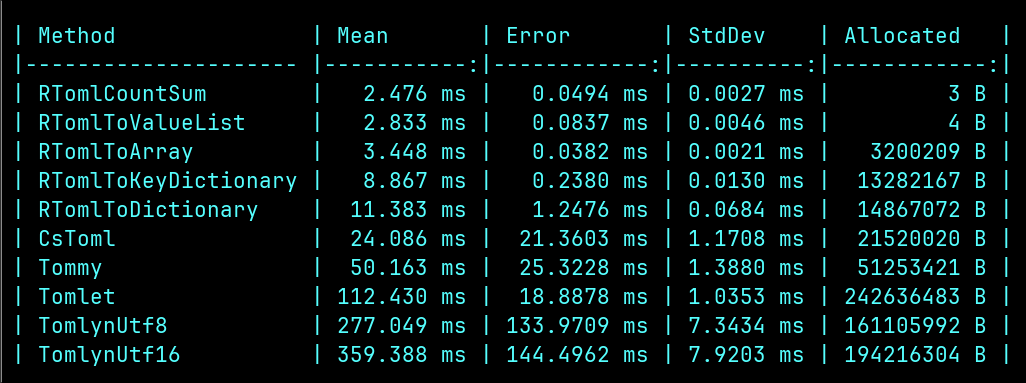
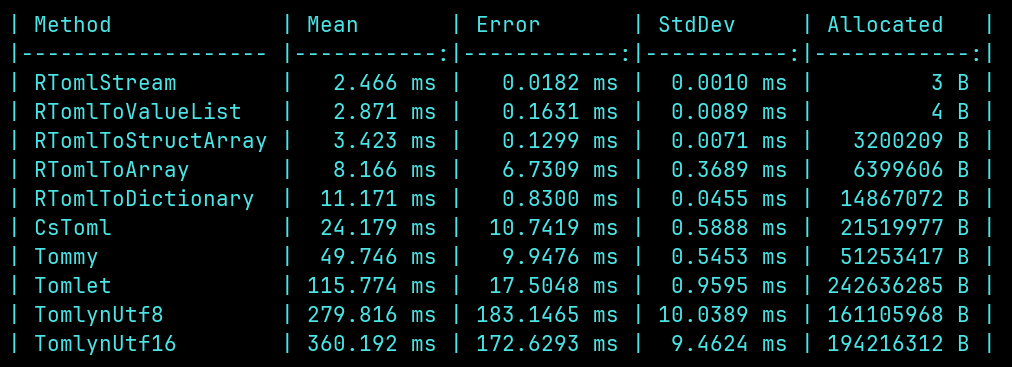
cleanup and redo benchmarks

diff --git a/readme.md b/readme.md
@@ -38,10 +38,10 @@ dictionary["server.port"].ToInt(toml)   // 8080
 
 // or any of the other formats
 let array = RToml.toArray(toml)
+let array2 = RToml.toStructArray(toml)
 let valuelist = 
     use vlist = RToml.toValueList(toml)
     for v in vlist do () //.. do something
-let dictionary2 = RToml.toKeyDictionary(toml)
 // or iterate over the key-value pairs
 RToml.stream (
     toml,
